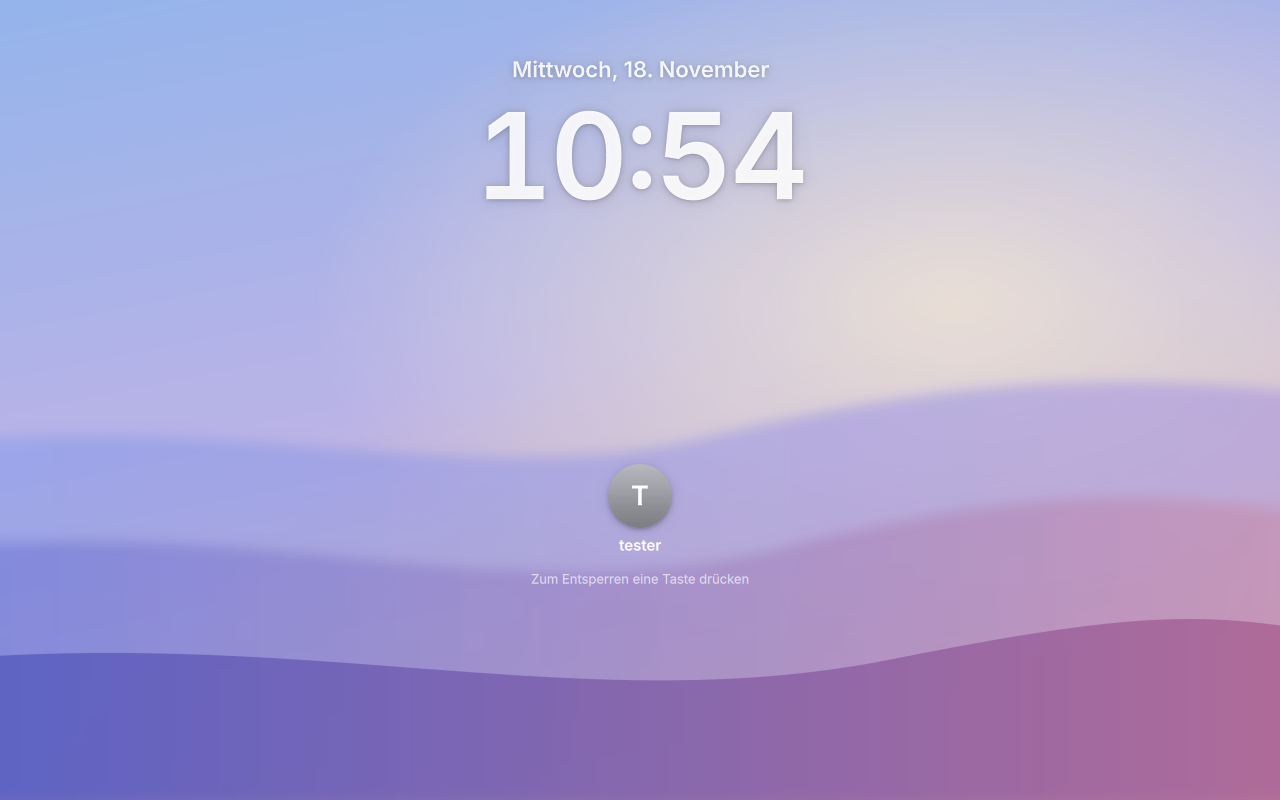
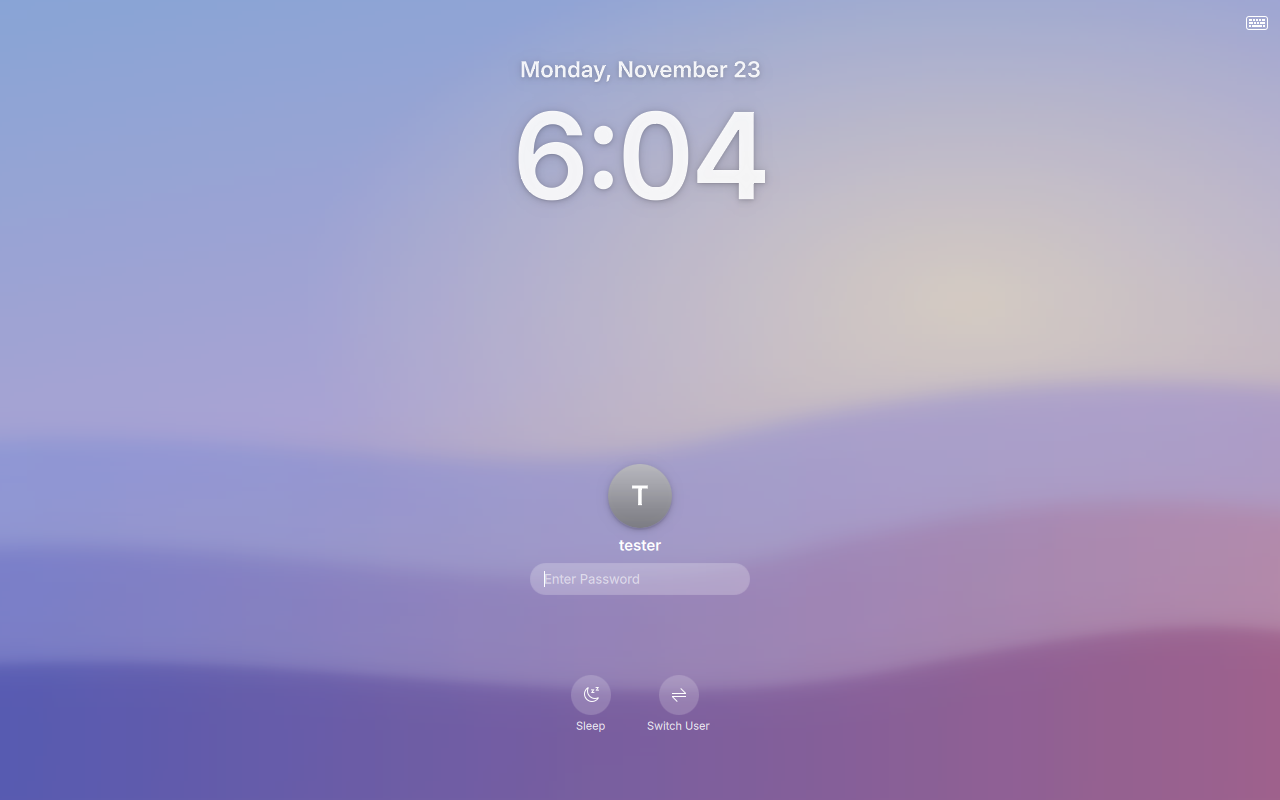
README: English screenshots (desktop, dark mode, window, dock, Launchpad, Kestrel menu, lock screen, live stick); live installer no longer guesses the language from the location

Changed region(s): [[0.375, 0.0625, 0.625, 0.2812], [0.4062, 0.7188, 0.5625, 0.75], [0.4375, 0.8438, 0.5625, 0.875]]

diff --git a/README.md b/README.md
@@ -28,7 +28,9 @@ All screenshots are from the automatic and manual tests in a VM.
 | | |
 |---|---|
 | ![Light mode](docs/screenshots/desktop-light.png) Light mode | ![Dark mode](docs/screenshots/desktop-dark.png) Dark mode ("Kestrel Dark") |
-| ![Window frame](docs/screenshots/window-light.png) Window frame with real rounded corners: the window content is cut round too | |
+| ![Window frame](docs/screenshots/window-light.png) Window frame with real rounded corners: the window content is cut round too | ![Kestrel menu](docs/screenshots/kestrel-menu.png) The Kestrel menu behind the bird, like the Apple menu |
+| ![Launchpad](docs/screenshots/launchpad.png) Launchpad: all apps over the blurred desktop | ![Launchpad search](docs/screenshots/launchpad-search.png) Typing in the Launchpad searches; Enter opens the first hit |
+| ![Restart](docs/screenshots/restart-confirm.png) Restart and Shut Down ask first | ![Live desktop](docs/screenshots/live-desktop.png) The live USB stick, with "Install Kestrel OS" in the dock |
 | ![Dock](docs/screenshots/dock-magnification.png) Dock with magnification and labels | ![Lock screen](docs/screenshots/lock-screen.png) Lock screen |
 | ![Lock screen, wrong password](docs/screenshots/lock-screen-password.png) Lock screen after a wrong password | ![Lock screen variant](docs/screenshots/lock-screen-variant.png) One of many lock screen styles: small thin clock, blurred wallpaper, a message |
 | ![Lock screen settings](docs/screenshots/lock-screen-settings.png) Lock screen settings | ![Setup wizard](docs/screenshots/setup-dark-mode.png) First-start setup with dark mode switched on |
@@ -37,7 +39,9 @@ All screenshots are from the automatic and manual tests in a VM.
 | ![Setup welcome](docs/screenshots/setup-welcome.png) First-start setup | ![Setup finished](docs/screenshots/setup-finished.png) End of the setup |
 | ![Login screen](docs/screenshots/login-screen.png) Login screen | ![Start screen](docs/screenshots/start-screen.png) Start screen after logging in, fades into the desktop |
 
-The system language in the screenshots is German; every language Fedora supports works.
+Kestrel starts in English; every language Fedora supports can be chosen while installing. The
+installer, setup, login and lock screen settings pictures are still from an older German test run
+and are being retaken in English.
 
 ## What's inside
 
